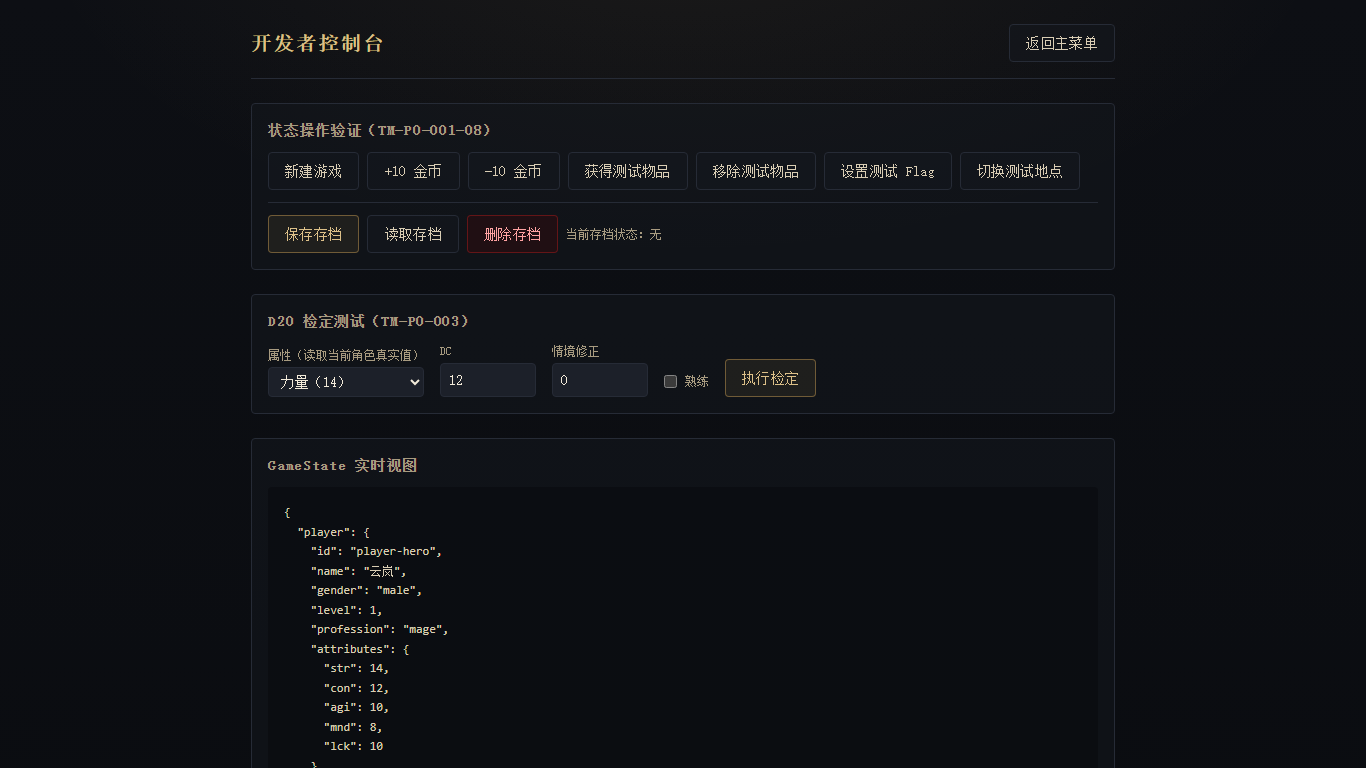
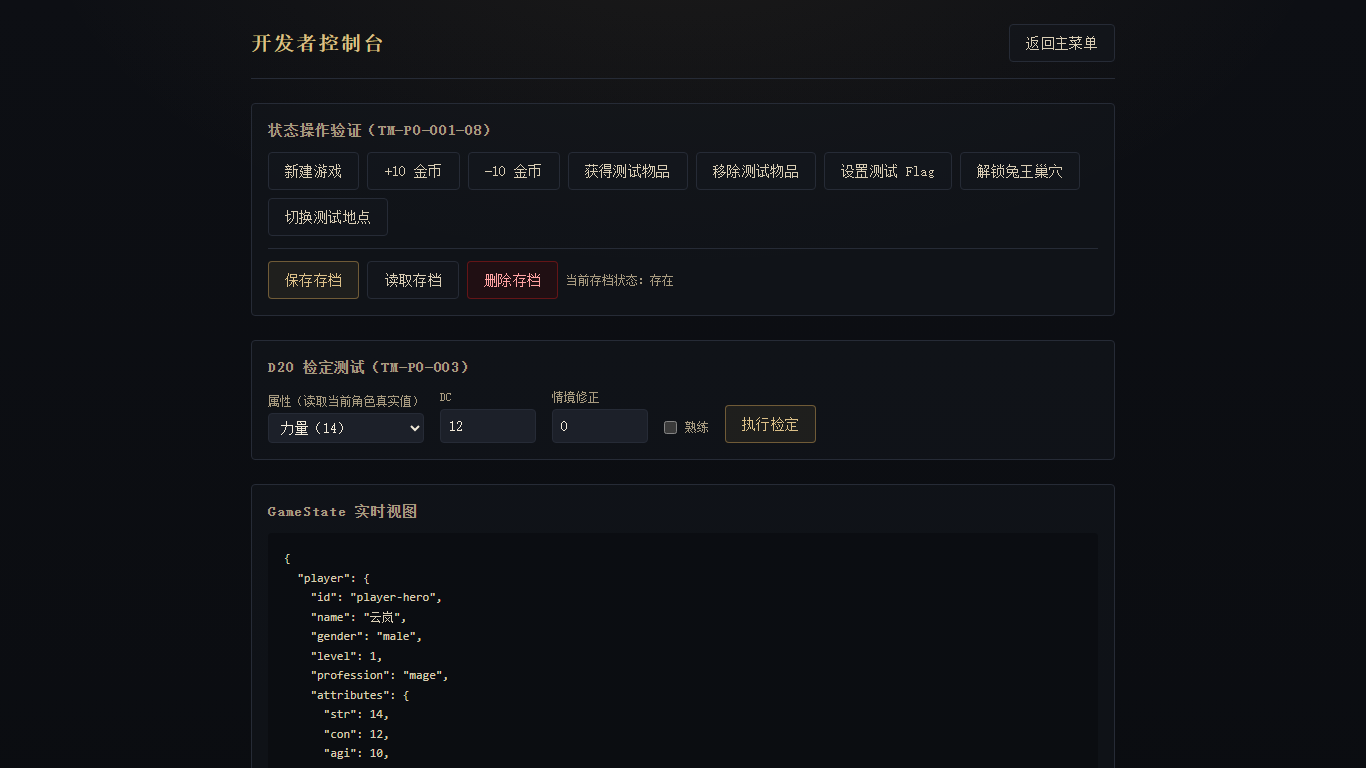
feat: add scene-node exploration

diff --git a/src/pages/GamePage.tsx b/src/pages/GamePage.tsx
@@ -26,7 +26,9 @@ function Bar({ label, value, max }: { label: string; value: number; max: number 
 export default function GamePage({ onBackToMenu }: GamePageProps) {
   const gameState = useGameStore((s) => s.gameState)
   const saveGame = useGameStore((s) => s.saveGame)
+  const travelToLocation = useGameStore((s) => s.travelToLocation)
   const [saveResult, setSaveResult] = useState<'saved' | 'failed' | null>(null)
+  const [travelError, setTravelError] = useState(false)
 
   if (!gameState) {
     return (
@@ -38,11 +40,17 @@ export default function GamePage({ onBackToMenu }: GamePageProps) {
   }
 
   const { player, world } = gameState
+  const location = getLocation(world.currentLocationId)
 
   const handleSave = () => {
     const ok = saveGame()
     setSaveResult(ok ? 'saved' : 'failed')
     window.setTimeout(() => setSaveResult(null), 2500)
+  }
+
+  const handleTravel = (targetId: string) => {
+    // TM-P0-005：正式游戏移动只走 travelToLocation（Store 内部校验）
+    setTravelError(!travelToLocation(targetId))
   }
 
   return (
@@ -82,12 +90,43 @@ export default function GamePage({ onBackToMenu }: GamePageProps) {
       </section>
 
       <section className="rounded border border-ink-600 bg-ink-800/50 p-5 text-sm text-bone-300">
-        <p className="mb-1 text-bone-500">当前位置</p>
-        <p>{getLocation(world.currentLocationId)?.name ?? world.currentLocationId}</p>
-        <p className="text-xs text-bone-500">{world.currentLocationId}</p>
-        <p className="mt-3 text-xs text-bone-500">
-          （此页面为开发基线展示，场景探索将在后续任务卡实现。）
-        </p>
+        <p className="mb-2 text-bone-500">当前位置</p>
+        {location ? (
+          <>
+            <h3 className="text-lg font-bold text-bone-100">{location.name}</h3>
+            <p className="mt-2 leading-relaxed">{location.description}</p>
+            <p className="mt-2 text-xs text-bone-500">{location.id}</p>
+            <div className="mt-4">
+              <p className="mb-2 text-bone-500">可前往：</p>
+              <div className="flex flex-wrap gap-4">
+                {location.connections.map((targetId) => {
+                  const target = getLocation(targetId)
+                  if (!target) return null
+                  const locked =
+                    target.requiredFlag !== undefined && world.flags[target.requiredFlag] !== true
+                  return (
+                    <div key={targetId} className="flex flex-col items-start gap-1">
+                      <Button
+                        variant={locked ? 'ghost' : 'primary'}
+                        disabled={locked}
+                        onClick={() => handleTravel(targetId)}
+                      >
+                        {target.name}
+                      </Button>
+                      {locked && (
+                        <span className="text-xs text-bone-500">尚未找到进入此地的方法</span>
+                      )}
+                    </div>
+                  )
+                })}
+              </div>
+            </div>
+          </>
+        ) : (
+          // TM-P0-005：未知当前位置安全边界——不崩溃、不提供移动按钮
+          <p className="text-bone-300">未知地点（{world.currentLocationId}）</p>
+        )}
+        {travelError && <p className="mt-3 text-sm text-red-300">无法前往该地点。</p>}
       </section>
 
       <footer className="flex items-center gap-4">

diff --git a/src/game/rules/exploration.test.ts b/src/game/rules/exploration.test.ts
@@ -1,0 +1,85 @@
+import { describe, expect, it } from 'vitest'
+import { checkTravel } from './exploration'
+
+describe('TM-P0-005：checkTravel 合法相邻移动', () => {
+  it('青石村 → 村外草原：allowed', () => {
+    expect(checkTravel('qingshi_village', 'village_grassland', {})).toEqual({ allowed: true })
+  })
+
+  it('青石村 → 废弃矿洞：allowed', () => {
+    expect(checkTravel('qingshi_village', 'abandoned_mine', {})).toEqual({ allowed: true })
+  })
+
+  it('村外草原 → 青石村：allowed（双向连接）', () => {
+    expect(checkTravel('village_grassland', 'qingshi_village', {})).toEqual({ allowed: true })
+  })
+
+  it('废弃矿洞 → 青石村：allowed', () => {
+    expect(checkTravel('abandoned_mine', 'qingshi_village', {})).toEqual({ allowed: true })
+  })
+
+  it('兔王巢穴 → 村外草原：allowed', () => {
+    expect(checkTravel('rabbit_lair', 'village_grassland', { rabbit_lair_unlocked: true })).toEqual({
+      allowed: true,
+    })
+  })
+})
+
+describe('TM-P0-005：checkTravel 非相邻拒绝', () => {
+  it('青石村 → 兔王巢穴：not_connected', () => {
+    const r = checkTravel('qingshi_village', 'rabbit_lair', { rabbit_lair_unlocked: true })
+    expect(r.allowed).toBe(false)
+    expect(r.reason).toBe('not_connected')
+  })
+
+  it('废弃矿洞 → 村外草原：not_connected', () => {
+    const r = checkTravel('abandoned_mine', 'village_grassland', {})
+    expect(r.allowed).toBe(false)
+    expect(r.reason).toBe('not_connected')
+  })
+})
+
+describe('TM-P0-005：锁定地点 requiredFlag', () => {
+  it('flags 为空时村外草原 → 兔王巢穴：required_flag_missing', () => {
+    const r = checkTravel('village_grassland', 'rabbit_lair', {})
+    expect(r.allowed).toBe(false)
+    expect(r.reason).toBe('required_flag_missing')
+  })
+
+  it('flags.rabbit_lair_unlocked = true 时允许', () => {
+    const r = checkTravel('village_grassland', 'rabbit_lair', { rabbit_lair_unlocked: true })
+    expect(r.allowed).toBe(true)
+    expect(r.reason).toBeUndefined()
+  })
+
+  it.each([1, 'true', 0, 'false', false])('rabbit_lair_unlocked = %p 仍被阻止（必须严格 === true）', (value) => {
+    const r = checkTravel('village_grassland', 'rabbit_lair', { rabbit_lair_unlocked: value })
+    expect(r.allowed).toBe(false)
+    expect(r.reason).toBe('required_flag_missing')
+  })
+})
+
+describe('TM-P0-005：不存在地点拒绝', () => {
+  it('未知 currentLocationId：current_location_not_found', () => {
+    const r = checkTravel('nowhere', 'qingshi_village', {})
+    expect(r.allowed).toBe(false)
+    expect(r.reason).toBe('current_location_not_found')
+  })
+
+  it('未知 targetLocationId：target_location_not_found', () => {
+    const r = checkTravel('qingshi_village', 'nowhere', {})
+    expect(r.allowed).toBe(false)
+    expect(r.reason).toBe('target_location_not_found')
+  })
+})
+
+describe('TM-P0-005：无副作用（flags 不变）', () => {
+  it('checkTravel 前后 flags 内容完全不变', () => {
+    const flags: Record<string, boolean | number | string> = { rabbit_lair_unlocked: true, test_flag: 1 }
+    const snapshot = JSON.stringify(flags)
+    checkTravel('village_grassland', 'rabbit_lair', flags)
+    checkTravel('qingshi_village', 'rabbit_lair', flags)
+    checkTravel('nowhere', 'qingshi_village', flags)
+    expect(JSON.stringify(flags)).toBe(snapshot)
+  })
+})

diff --git a/src/game/state/gameStore.test.ts b/src/game/state/gameStore.test.ts
@@ -238,3 +238,57 @@ describe('TM-P0-001-R4：setFlag 拒绝非有限数字', () => {
     expect(useGameStore.getState().gameState?.world.flags.progress).toBe(0.5)
   })
 })
+
+describe('TM-P0-005：travelToLocation 正式移动入口', () => {
+  const locationId = () => useGameStore.getState().gameState?.world.currentLocationId
+
+  it('合法相邻移动：青石村 → 村外草原，更新并返回 true', () => {
+    expect(locationId()).toBe('qingshi_village')
+    expect(useGameStore.getState().travelToLocation('village_grassland')).toBe(true)
+    expect(locationId()).toBe('village_grassland')
+  })
+
+  it('合法相邻移动：青石村 → 废弃矿洞', () => {
+    expect(useGameStore.getState().travelToLocation('abandoned_mine')).toBe(true)
+    expect(locationId()).toBe('abandoned_mine')
+  })
+
+  it('非相邻移动：青石村 → 兔王巢穴，位置不变返回 false', () => {
+    expect(useGameStore.getState().travelToLocation('rabbit_lair')).toBe(false)
+    expect(locationId()).toBe('qingshi_village')
+  })
+
+  it('锁定地点：村外草原 → 兔王巢穴（未解锁），位置不变返回 false', () => {
+    useGameStore.getState().travelToLocation('village_grassland')
+    expect(useGameStore.getState().travelToLocation('rabbit_lair')).toBe(false)
+    expect(locationId()).toBe('village_grassland')
+  })
+
+  it('解锁后：村外草原 → 兔王巢穴成功', () => {
+    useGameStore.getState().travelToLocation('village_grassland')
+    useGameStore.getState().setFlag('rabbit_lair_unlocked', true)
+    expect(useGameStore.getState().travelToLocation('rabbit_lair')).toBe(true)
+    expect(locationId()).toBe('rabbit_lair')
+    // 兔王巢穴可返回村外草原
+    expect(useGameStore.getState().travelToLocation('village_grassland')).toBe(true)
+  })
+
+  it('无 gameState 时返回 false', () => {
+    useGameStore.setState({ gameState: null })
+    expect(useGameStore.getState().travelToLocation('village_grassland')).toBe(false)
+  })
+
+  it('移动不自动保存', () => {
+    useGameStore.getState().travelToLocation('village_grassland')
+    expect(useGameStore.getState().hasSave).toBe(false)
+  })
+
+  it('非严格解锁值不生效：1 与 "true" 均无法进入兔王巢穴', () => {
+    useGameStore.getState().travelToLocation('village_grassland')
+    useGameStore.getState().setFlag('rabbit_lair_unlocked', 1)
+    expect(useGameStore.getState().travelToLocation('rabbit_lair')).toBe(false)
+    useGameStore.getState().setFlag('rabbit_lair_unlocked', 'true')
+    expect(useGameStore.getState().travelToLocation('rabbit_lair')).toBe(false)
+    expect(locationId()).toBe('village_grassland')
+  })
+})

diff --git a/src/game/state/gameStore.ts b/src/game/state/gameStore.ts
@@ -1,6 +1,7 @@
 import { create } from 'zustand'
 import type { CharacterCreationInput, GameState } from '../types'
 import { createInitialGameState } from '../content/initial'
+import { checkTravel } from '../rules/exploration'
 import {
   deleteGame as deleteSave,
   hasSave as storageHasSave,
@@ -24,7 +25,10 @@ interface GameStoreState {
   deleteGame: () => void
 
   // 状态修改（数据流验证用最小动作集）
+  /** 开发验证入口：直接设置地点（正式游戏页面禁止调用，仅开发者控制台使用，TM-P0-005） */
   setCurrentLocation: (locationId: string) => void
+  /** 正式移动入口：Store 自身执行 checkTravel 校验，非法移动不改变 GameState（TM-P0-005） */
+  travelToLocation: (targetLocationId: string) => boolean
   addGold: (amount: number) => void
   removeGold: (amount: number) => void
   addItem: (itemId: string, quantity?: number) => void
@@ -81,6 +85,23 @@ export const useGameStore = create<GameStoreState>()((set) => ({
           }
         : {},
     )
+  },
+
+  travelToLocation: (targetLocationId) => {
+    let moved = false
+    set((s) => {
+      if (!s.gameState) return {}
+      const check = checkTravel(s.gameState.world.currentLocationId, targetLocationId, s.gameState.world.flags)
+      if (!check.allowed) return {}
+      moved = true
+      return {
+        gameState: {
+          ...s.gameState,
+          world: { ...s.gameState.world, currentLocationId: targetLocationId },
+        },
+      }
+    })
+    return moved
   },
 
   addGold: (amount) => {

diff --git a/src/game/rules/exploration.ts b/src/game/rules/exploration.ts
@@ -1,0 +1,42 @@
+/**
+ * 地点移动规则（TM-P0-005）。
+ * 纯函数：只返回判断结果，不修改 GameState / flags / localStorage，不使用 Store。
+ */
+import { getLocation } from '../content'
+
+export type TravelBlockReason =
+  | 'current_location_not_found'
+  | 'target_location_not_found'
+  | 'not_connected'
+  | 'required_flag_missing'
+
+export interface TravelCheckResult {
+  allowed: boolean
+  reason?: TravelBlockReason
+}
+
+/**
+ * 判断从当前地点前往目标地点是否合法。
+ * 检查顺序：当前地点存在 → 目标地点存在 → 目标相邻 → 解锁 Flag（严格 === true）。
+ */
+export function checkTravel(
+  currentLocationId: string,
+  targetLocationId: string,
+  flags: Record<string, boolean | number | string>,
+): TravelCheckResult {
+  const current = getLocation(currentLocationId)
+  if (!current) {
+    return { allowed: false, reason: 'current_location_not_found' }
+  }
+  const target = getLocation(targetLocationId)
+  if (!target) {
+    return { allowed: false, reason: 'target_location_not_found' }
+  }
+  if (!current.connections.includes(targetLocationId)) {
+    return { allowed: false, reason: 'not_connected' }
+  }
+  if (target.requiredFlag !== undefined && flags[target.requiredFlag] !== true) {
+    return { allowed: false, reason: 'required_flag_missing' }
+  }
+  return { allowed: true }
+}

diff --git a/src/pages/DevStatePage.tsx b/src/pages/DevStatePage.tsx
@@ -89,6 +89,9 @@ export default function DevStatePage({ onBackToMenu }: DevStatePageProps) {
           <Button variant="ghost" onClick={() => setFlag('test_flag', true)}>
             设置测试 Flag
           </Button>
+          <Button variant="ghost" onClick={() => setFlag('rabbit_lair_unlocked', true)}>
+            解锁兔王巢穴
+          </Button>
           <Button
             variant="ghost"
             onClick={() => setCurrentLocation(gameState?.world.currentLocationId === LOCATION_A ? LOCATION_B : LOCATION_A)}

diff --git a/README.md b/README.md
@@ -79,6 +79,15 @@ TM-P0-004（角色创建与新游戏入口）：
 - 创建新角色不自动覆盖旧存档；Continue 流程零回归
 - 11 个创建校验单测 + 3 个 HP/MP 公式单测 + 9 项 E2E（创建流程/旧存档回归）
 
+TM-P0-005（场景节点探索与合法地点移动）：
+- `src/game/rules/exploration.ts`：纯函数 `checkTravel(current, target, flags)`，按序检查 当前地点存在 → 目标存在 → 相邻 → 解锁 Flag（严格 === true，1/"true" 不算），返回 `{allowed, reason?}`，无副作用
+- Store 正式入口 `travelToLocation(targetId): boolean`：自身执行 checkTravel，非法移动不改 GameState；`setCurrentLocation` 保留为开发控制台专用
+- 游戏页场景区：地点名称 + description + 相邻地点按钮（中文名，读 LOCATIONS 注册表）；锁定地点按钮禁用并提示「尚未找到进入此地的方法」（不暴露 requiredFlag）；未知 currentLocationId 显示「未知地点」不崩溃、无移动按钮
+- 移动只改内存、不自动保存；手动保存后 Continue 恢复当前位置
+- 开发者控制台新增「解锁兔王巢穴」验证按钮（setFlag('rabbit_lair_unlocked', true)）
+- GameState 结构未改、SAVE_VERSION 仍 1
+- 17 个探索规则单测 + 8 个 Store 移动单测 + 13 项 E2E（流程 A 基本移动 / B 锁定 / C 解锁 / D 存档恢复位置 / 未知地点边界）
+
 ## 目录结构
 
 ```
